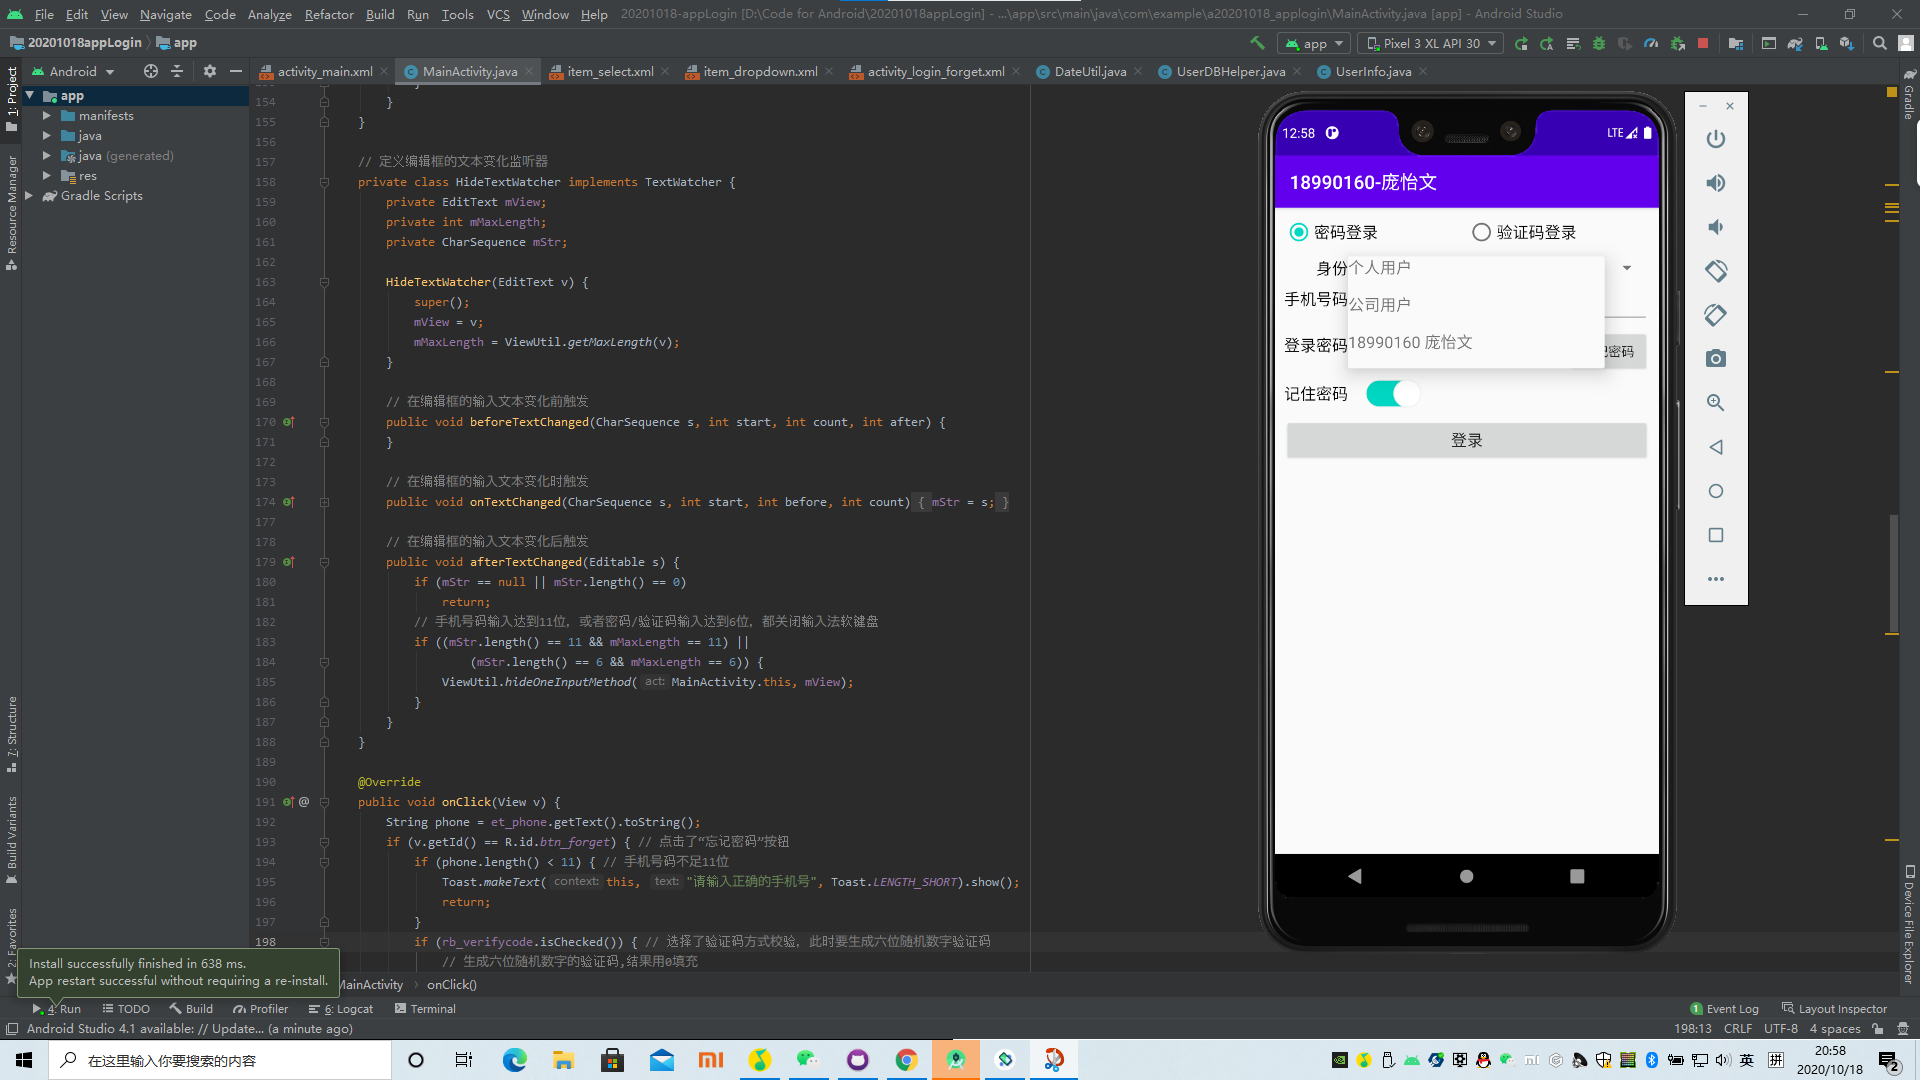
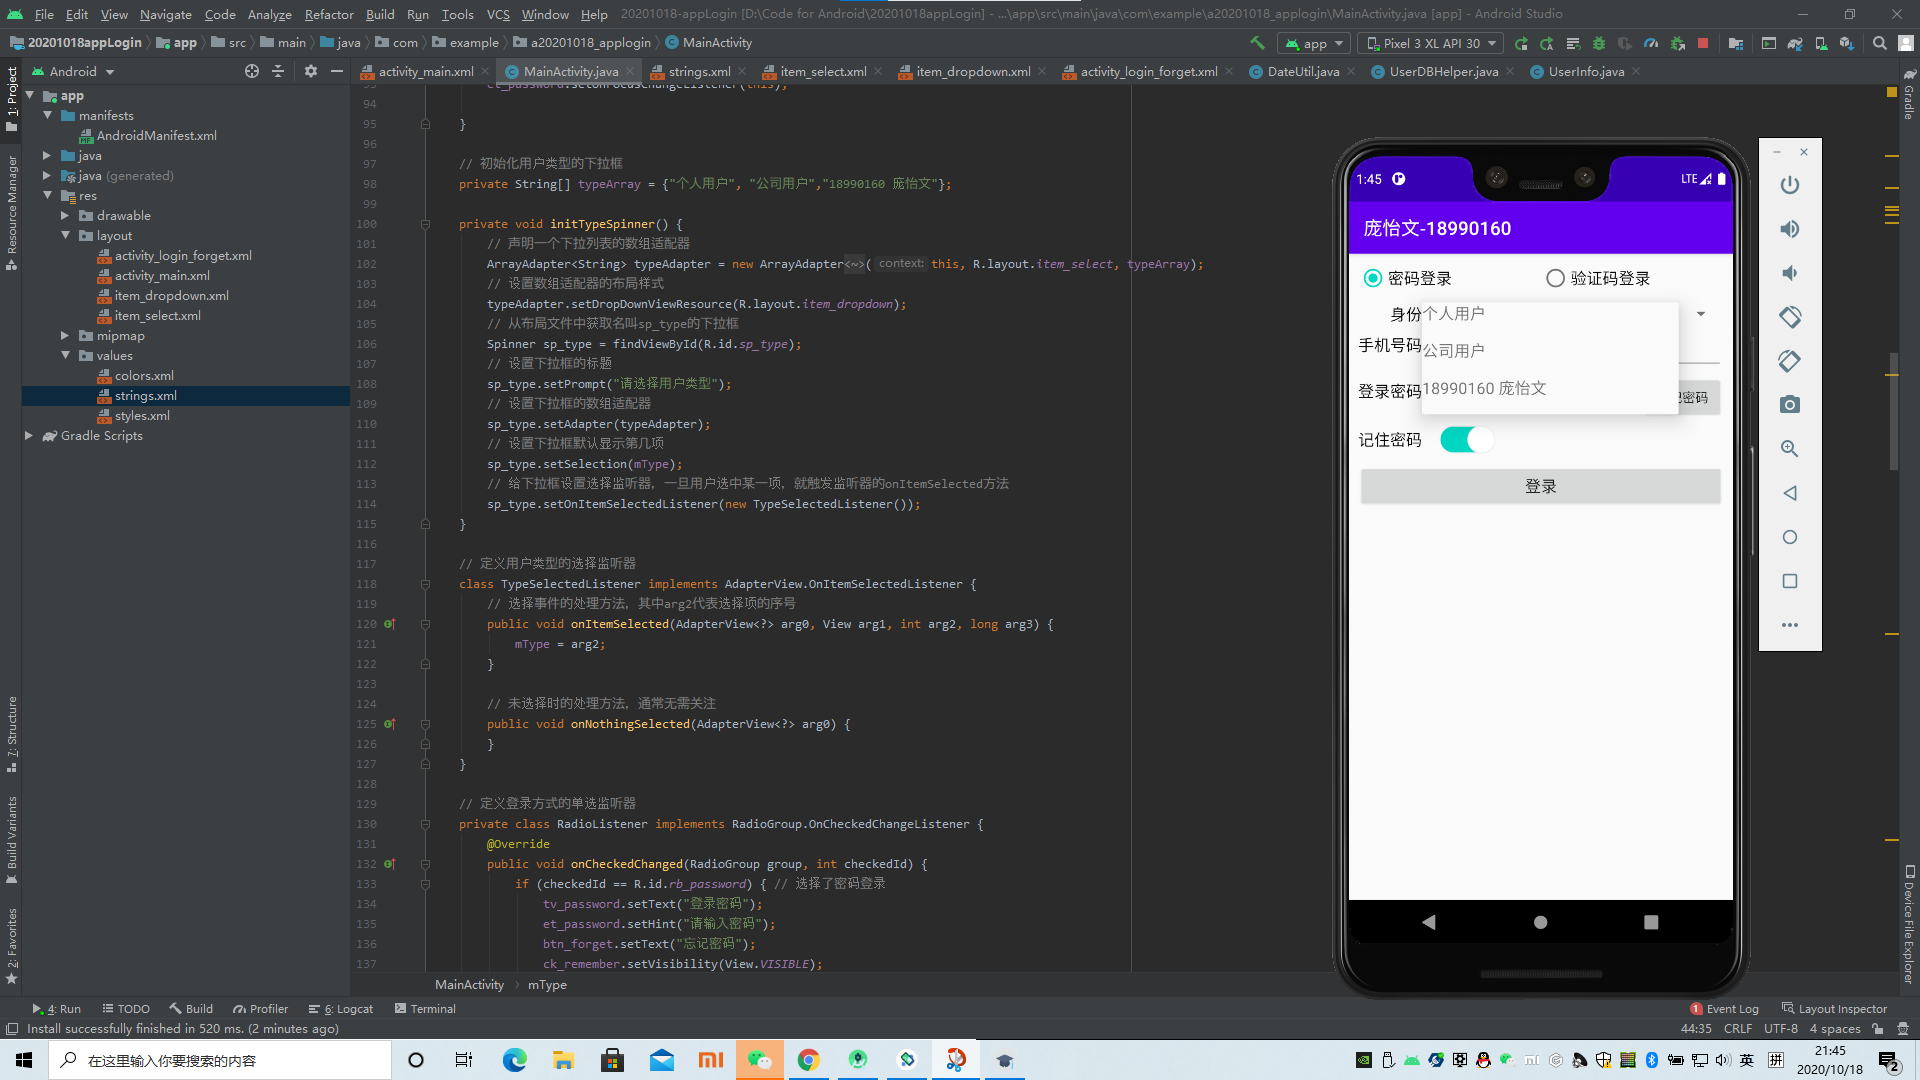
修改了部分代码和截图

diff --git a/20201018appLogin/app/src/main/java/com/example/a20201018_applogin/MainActivity.java b/20201018appLogin/app/src/main/java/com/example/a20201018_applogin/MainActivity.java
@@ -18,6 +18,7 @@ import android.widget.EditText;
 import android.widget.RadioButton;
 import android.widget.RadioGroup;
 import android.widget.Spinner;
+import android.widget.SpinnerAdapter;
 import android.widget.Switch;
 import android.widget.TextView;
 import android.widget.Toast;
@@ -40,7 +41,7 @@ public class MainActivity extends AppCompatActivity implements View.OnClickListe
     private Switch ck_remember; // 声明一个复选框对象
 
     private int mRequestCode = 0; // 跳转页面时的请求代码
-    private int mType = 0; // 用户类型
+    private int mType = 2; // 用户类型
     private boolean bRemember = false; // 是否记住密码
     private String mPassword = "111111"; // 默认密码
     private String mVerifyCode; // 验证码
@@ -109,7 +110,6 @@ public class MainActivity extends AppCompatActivity implements View.OnClickListe
         sp_type.setAdapter(typeAdapter);
         // 设置下拉框默认显示第几项
         sp_type.setSelection(mType);
-
         // 给下拉框设置选择监听器，一旦用户选中某一项，就触发监听器的onItemSelected方法
         sp_type.setOnItemSelectedListener(new TypeSelectedListener());
     }
